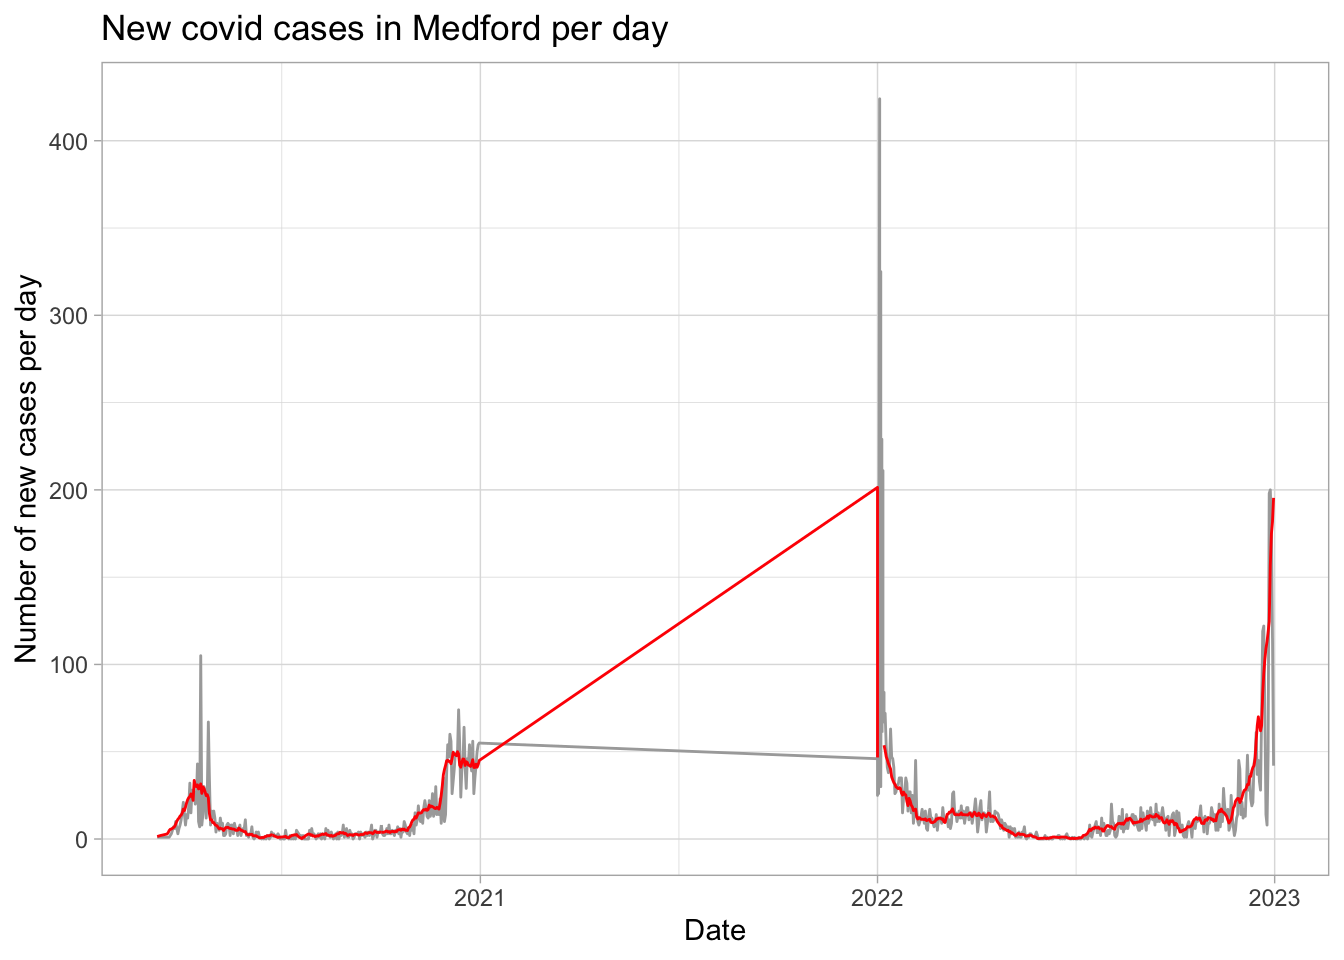
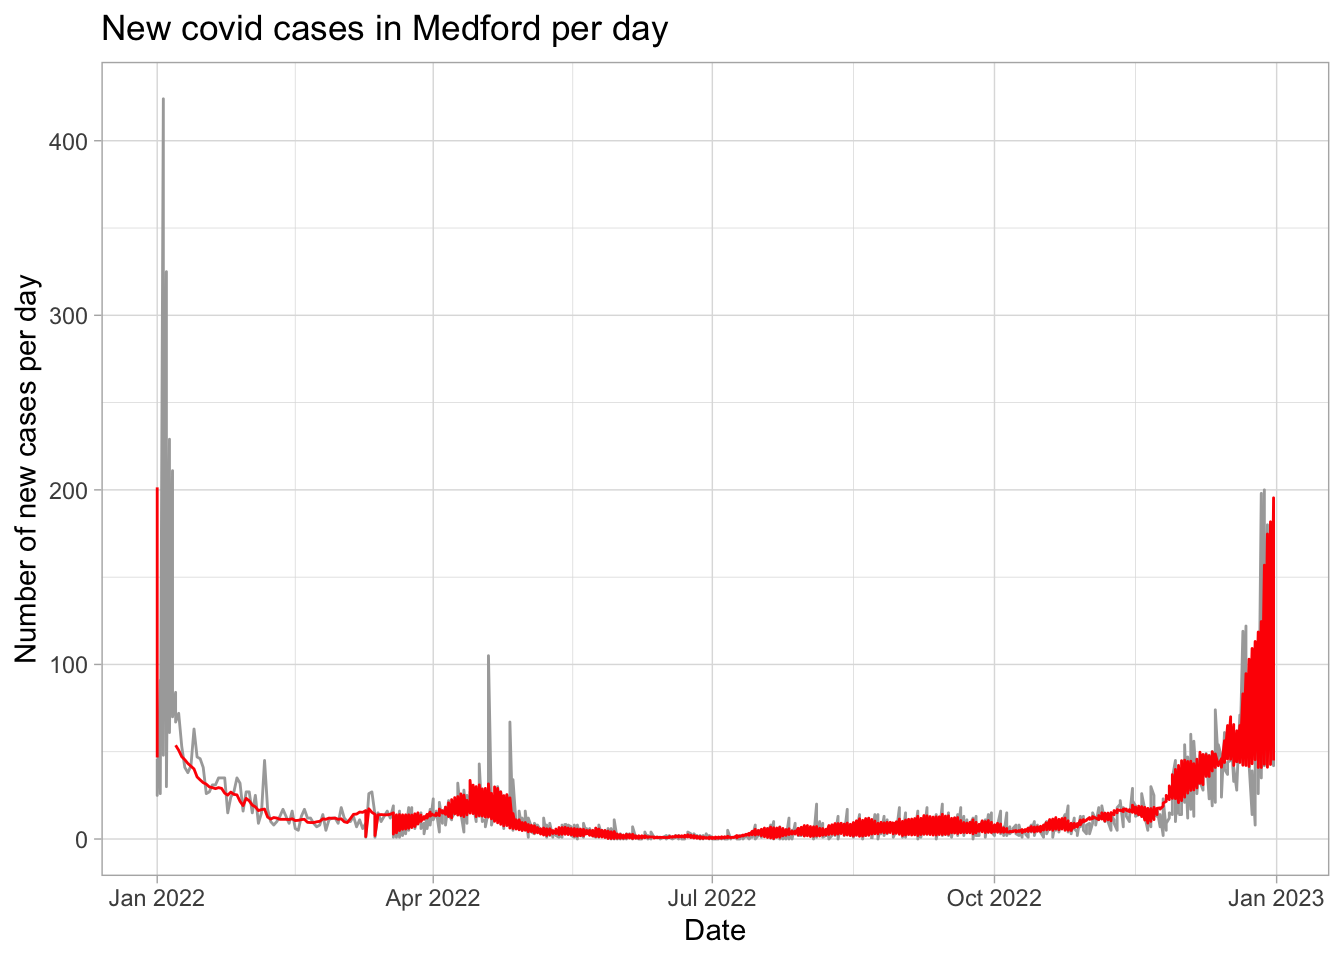
updated data

diff --git a/docs/index.html b/docs/index.html
@@ -286,7 +286,7 @@ $(document).ready(function () {
 <p>Please keep my family, and yours, and yourself safe by following public health guidelines. Find a vaccine at <a href="https://vaxfinder.mass.gov/" class="uri">https://vaxfinder.mass.gov/</a> and go <a href="https://www.medfordma.org/coronavirus-information/">here</a> for info on boosters, masking, and more.</p>
 <p>Positivity rates (what percent of tests show covid; if this is high, it could indicate that many other cases are being missed).</p>
 <p><img src="index_files/figure-html/unnamed-chunk-2-1.png" width="672" /></p>
-<p>New covid cases per day in Medford (seven day average in red) [<em>temporary issue in year until Medford updates its data for 2022</em>]</p>
+<p>New covid cases per day in Medford (seven day average in red)</p>
 <p><img src="index_files/figure-html/unnamed-chunk-3-1.png" width="672" /></p>
 <div id="hospital-data" class="section level3">
 <h3>Hospital data</h3>
